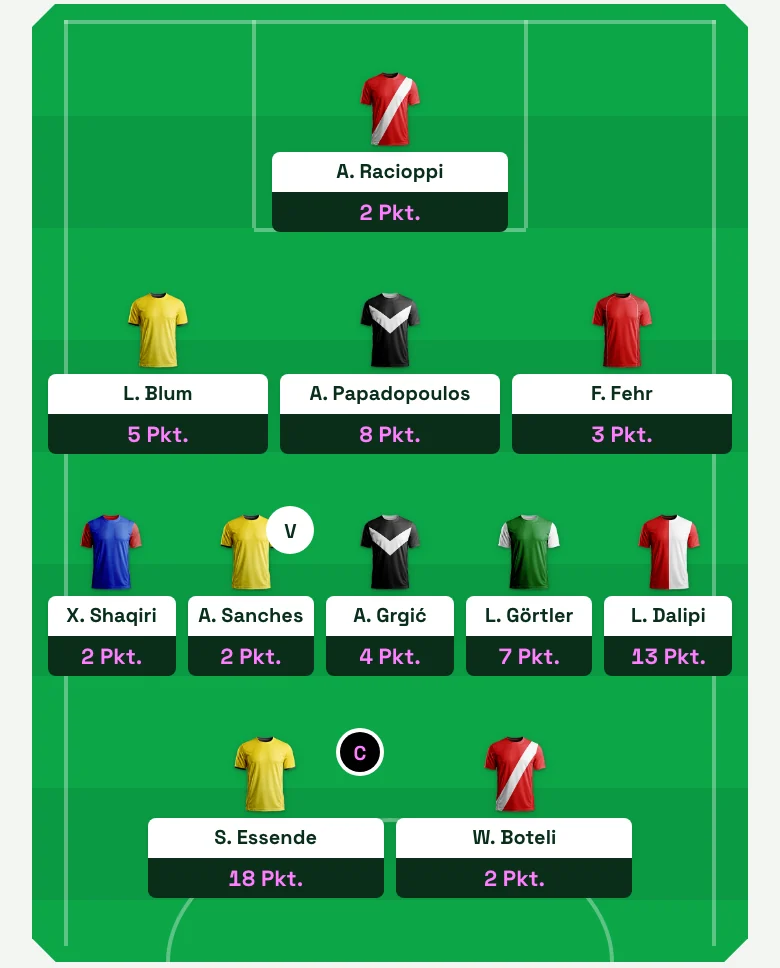
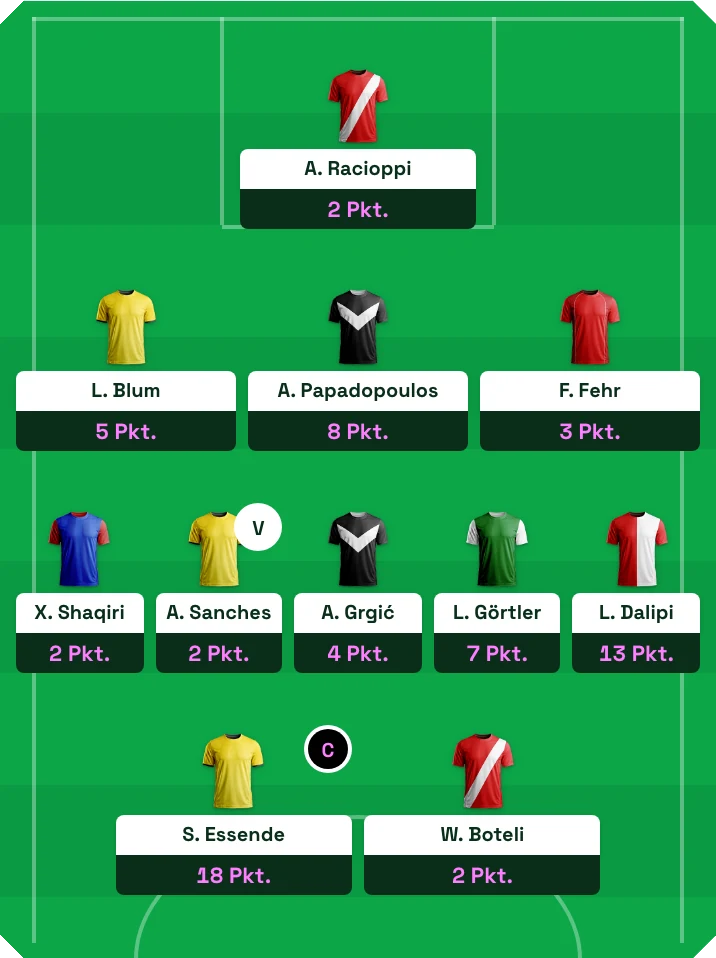
Startseite: Screenshots ohne zusätzlichen Rahmen
Die Bilder sind jetzt genau auf die Karten der App zugeschnitten —
Spielfeld und Statistiktabelle — und tragen deren gefaste Ecken selbst,
mit durchsichtigem Rand statt des hellen Seitenhintergrunds. Der weisse
Handyrahmen darum entfällt; ein weicher Schatten folgt per drop-shadow
der gefasten Form, damit sich die Karten vom grünen Grund abheben.

Aufgenommen über das DevTools-Protokoll als einzelnes Element in
doppelter Auflösung; die Statistik endet nach drei Spielern statt mitten
in einer Zeile.

Changed region(s): [[0.0, 0.0, 1.0, 1.0]]

diff --git a/src/app/page.tsx b/src/app/page.tsx
@@ -85,12 +85,16 @@ export default async function Home() {
           <Bildschirm
             src="/startseite-stats.webp"
             alt={t.shotStats}
-            className="z-0 w-[min(53cqw,calc(84cqh*0.806))] translate-y-[3%] -rotate-[5deg]"
+            breite={716}
+            hoehe={792}
+            className="z-0 w-[min(54cqw,calc(80cqh*0.904))] translate-y-[2%] -rotate-[5deg]"
           />
           <Bildschirm
             src="/startseite-team.webp"
             alt={t.shotTeam}
-            className="z-10 -ml-[15cqw] w-[min(60cqw,calc(96cqh*0.806))] rotate-[4deg]"
+            breite={716}
+            hoehe={958}
+            className="z-10 -ml-[14cqw] w-[min(58cqw,calc(96cqh*0.747))] rotate-[4deg]"
           />
         </div>
       </div>
@@ -118,22 +122,35 @@ export default async function Home() {
   );
 }
 
-/** Ein Screenshot im schlichten Handyrahmen. */
-function Bildschirm({ src, alt, className }: { src: string; alt: string; className: string }) {
+/**
+ * Ein Screenshot ohne eigenen Rahmen: Die Bilder sind genau auf die Karten
+ * der App zugeschnitten und tragen deren gefaste Ecken selbst, mit
+ * durchsichtigem Rand. Der Schatten folgt per drop-shadow dieser Form.
+ */
+function Bildschirm({
+  src,
+  alt,
+  breite,
+  hoehe,
+  className,
+}: {
+  src: string;
+  alt: string;
+  breite: number;
+  hoehe: number;
+  className: string;
+}) {
   return (
-    <div
-      className={`relative aspect-[780/968] max-w-[440px] overflow-hidden rounded-[22px] bg-white p-1.5 shadow-2xl ring-1 ring-black/10 sm:rounded-[28px] sm:p-2 ${className}`}
-    >
-      {/* eslint-disable-next-line @next/next/no-img-element */}
-      <img
-        src={src}
-        alt={alt}
-        width={390}
-        height={484}
-        decoding="async"
-        draggable={false}
-        className="h-full w-full select-none rounded-[16px] object-cover object-top sm:rounded-[20px]"
-      />
-    </div>
+    /* eslint-disable-next-line @next/next/no-img-element */
+    <img
+      src={src}
+      alt={alt}
+      width={breite / 2}
+      height={hoehe / 2}
+      decoding="async"
+      draggable={false}
+      style={{ aspectRatio: `${breite} / ${hoehe}` }}
+      className={`relative h-auto max-w-[400px] select-none drop-shadow-[0_18px_30px_rgba(0,0,0,0.35)] ${className}`}
+    />
   );
 }
